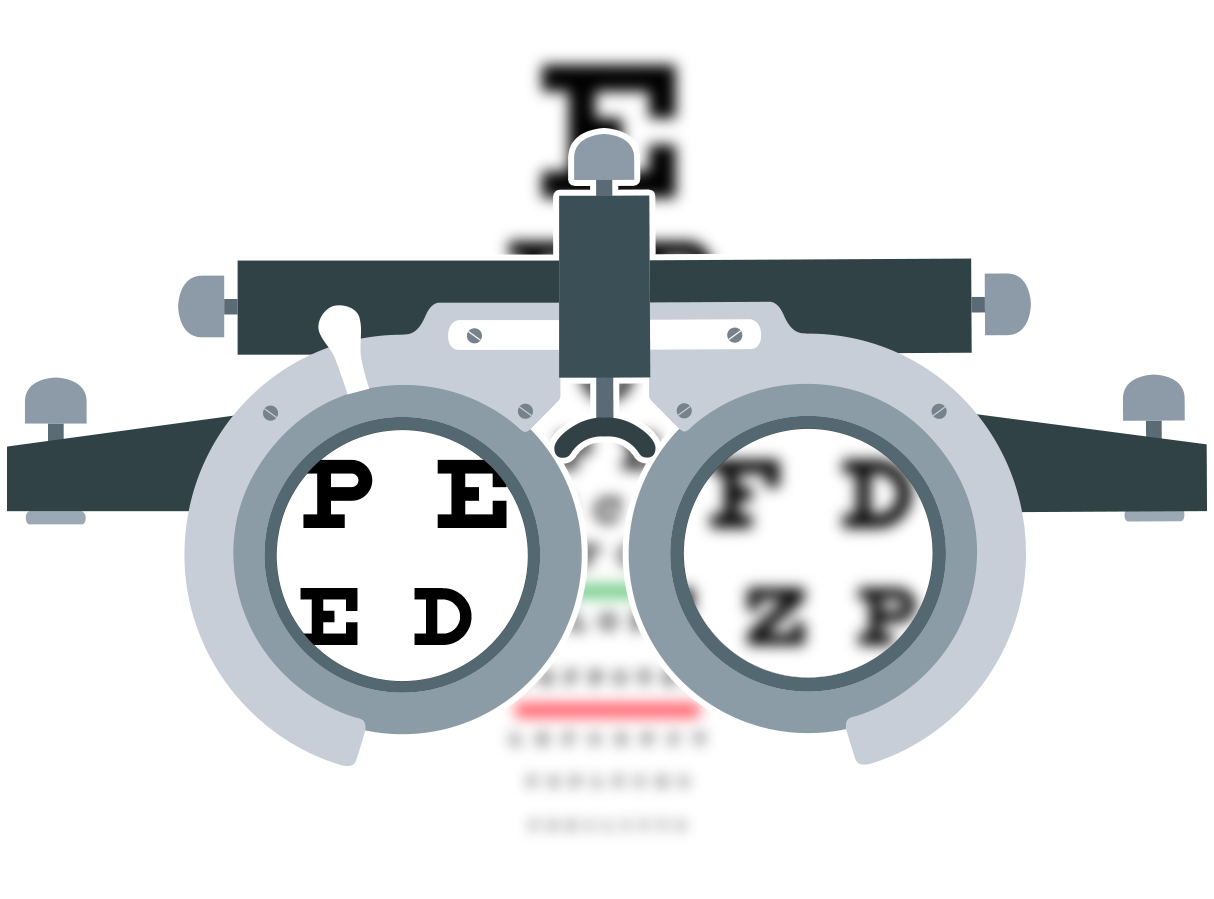
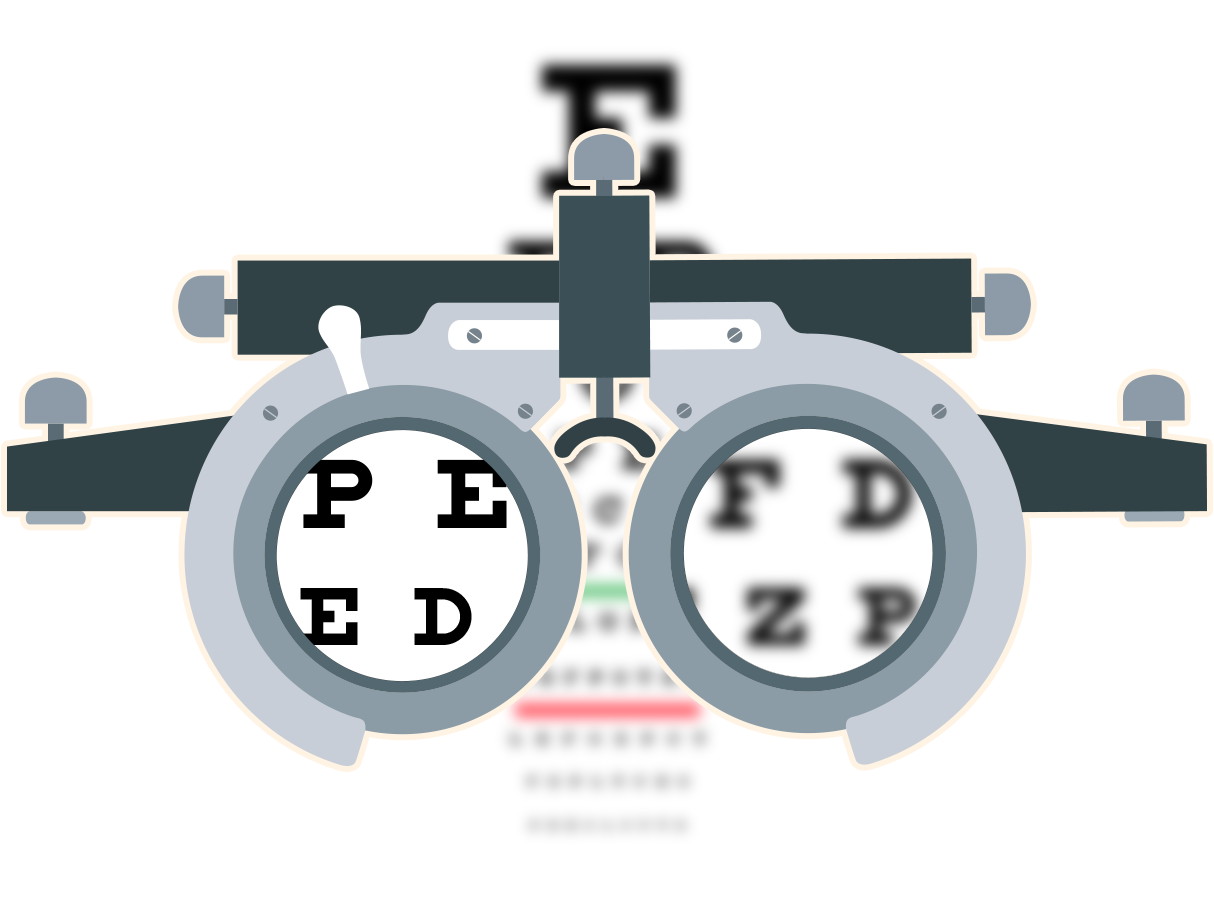
Added blur effect to images, bolded parts of text

diff --git a/index.html b/index.html
@@ -117,21 +117,28 @@
     <section class="hero">
       <div class="container">
         <div class="text-container">
-          <h1><em>See</em> the difference with hometown care.</h1>
+          <h1>
+            <em>See</em> the difference with <strong>hometown care</strong>.
+          </h1>
           <h2>
-            Dr. Phillips has been treating the eyes of Fayetteville, Dunn,
-            Lumberton, Raeford, Southern Pines and greater Moore, Hoke, Sampson,
-            and Cumberland counties for more than a decade. Let his experience
-            help you see more clearly.
+            <strong>Dr. Phillips</strong> has been treating the eyes of
+            Fayetteville, Dunn, Lumberton, Raeford, Southern Pines and greater
+            Moore, Hoke, Sampson, and Cumberland counties for
+            <strong>more than a decade</strong>. Let his experience help you
+            <strong>see more clearly</strong>.
           </h2>
           <div class="buttons">
             <a href="#about-us">About Us</a>
             <a href="#our-services">Our Services</a>
-            <a href="#our-mission">Location</a>
+            <a href="#our-location">Location</a>
           </div>
         </div>
         <div class="image-container">
-          <img src="images/hero-background.png" alt="Background Image" />
+          <img
+            class="hero-image blur-image"
+            src="images/hero-background.png"
+            alt="Background Image"
+          />
         </div>
       </div>
     </section>
@@ -172,30 +179,34 @@
       <div class="container">
         <h1>About Us</h1>
         <img
-          class="float-right"
+          class="float-right blur-image"
           alt="Picture of Dr. Brandon Phillips"
           src="images/dr-brandon-phillips.png"
         />
         <p>
-          Dr. Phillips is a general ophthalmologist whose specialty is medical
-          diseases of the eye.
+          Dr. Phillips is a general ophthalmologist whose specialty is
+          <strong>medical diseases of the eye</strong>.
         </p>
         <p>
-          He received his medical degree from the Medical College of Wisconsin
-          and completed internship and residency at Walter Reed National
-          Military Medical Center. He is certified by the American Board of
-          Ophthalmology and is a member of the American Academy of
-          Ophthalmology.
+          He received his medical degree from the
+          <strong>Medical College of Wisconsin</strong>
+          and completed internship and residency at
+          <strong>Walter Reed National Military Medical Center</strong>. He is
+          certified by the American Board of Ophthalmology and is a member of
+          the American Academy of Ophthalmology.
         </p>
         <p>
-          Dr. Phillips was born and raised in the Fayetteville area. After his
-          medical education and 12 years of military service, he came home to
-          take care of the town that has given him so much.
+          <strong
+            >Dr. Phillips was born and raised in the Fayetteville area.</strong
+          >
+          After his medical education and
+          <strong>12 years of military service</strong>, he came home to take
+          care of the town that has given him so much.
         </p>
         <p>
           Dr. Phillips and his wife, also a Fayetteville native, have four
-          children. He currently serves on the Board of Trustees at Fayetteville
-          State University.
+          children. He currently serves on the
+          <strong>Board of Trustees at Fayetteville State University</strong>.
         </p>
 
         <p>
@@ -241,24 +252,26 @@
       <div class="container">
         <h1>What You Can Expect</h1>
         <img
-          class="float-right"
+          class="float-right blur-image"
           alt="Eye Chart image"
           src="images/eye-chart.jpg"
         />
         <p>
           At Phillips Eye, you will receive exceptional one-on-one care. To us,
           that means a treatment plan tailored to your lifestyle, a wide range
-          of options for healthy eyes, minimal waiting, and time to talk with
-          Dr. Phillips about your concerns.
+          of options for <strong>healthy eyes</strong>, minimal waiting, and
+          time to talk with Dr. Phillips about your concerns.
         </p>
         <h2>Services</h2>
         <p>
-          Dr. Phillips's specialty is the medical treatment of eyes. From
-          routine care to comprehensive management of complex eye disease, his
-          passion is your care and comfort. In addition to a wealth of
-          experience, Dr. Phillips offers state-of-the-art diagnostic and
-          treatment equipment, including cutting-edge intense pulsed light
-          therapy (IPL).
+          <strong
+            >Dr. Phillips's specialty is the medical treatment of eyes.</strong
+          >
+          From routine care to comprehensive management of complex eye disease,
+          his passion is your care and comfort. In addition to a wealth of
+          experience, Dr. Phillips offers
+          <strong>state-of-the-art diagnostic and treatment equipment</strong>,
+          including cutting-edge intense pulsed light therapy (IPL).
         </p>
         <p>Most commonly, patients visit Dr. Phillips for management of:</p>
         <div class="lists-two-column">
@@ -320,7 +333,7 @@
           <div class="left">
             <p>
               <img
-                class="center"
+                class="center blur-image"
                 src="images/practice.png"
                 alt="Pic of Building"
               />
@@ -344,7 +357,8 @@
                     fill="#010101"
                     d="M459.654,233.373l-90.531,90.5c-49.969,50-131.031,50-181,0c-7.875-7.844-14.031-16.688-19.438-25.813  l42.063-42.063c2-2.016,4.469-3.172,6.828-4.531c2.906,9.938,7.984,19.344,15.797,27.156c24.953,24.969,65.563,24.938,90.5,0  l90.5-90.5c24.969-24.969,24.969-65.563,0-90.516c-24.938-24.953-65.531-24.953-90.5,0l-32.188,32.219  c-26.109-10.172-54.25-12.906-81.641-8.891l68.578-68.578c50-49.984,131.031-49.984,181.031,0  C509.623,102.342,509.623,183.389,459.654,233.373z M220.326,382.186l-32.203,32.219c-24.953,24.938-65.563,24.938-90.516,0  c-24.953-24.969-24.953-65.563,0-90.531l90.516-90.5c24.969-24.969,65.547-24.969,90.5,0c7.797,7.797,12.875,17.203,15.813,27.125  c2.375-1.375,4.813-2.5,6.813-4.5l42.063-42.047c-5.375-9.156-11.563-17.969-19.438-25.828c-49.969-49.984-131.031-49.984-181.016,0  l-90.5,90.5c-49.984,50-49.984,131.031,0,181.031c49.984,49.969,131.031,49.969,181.016,0l68.594-68.594  C274.561,395.092,246.42,392.342,220.326,382.186z"
                   /></svg></a
-              >, adjacent to the campus of Cape Fear Valley Medical Center.
+              >, adjacent to the campus of
+              <strong>Cape Fear Valley Medical Center</strong>.
             </p>
           </div>
           <div class="right">
@@ -441,5 +455,6 @@
         </div>
       </div>
     </footer>
+    <script src="main.js"></script>
   </body>
 </html>

diff --git a/main.css b/main.css
@@ -62,6 +62,7 @@ footer a,
   align-items: center;
   font-size: 20px;
   transition: all 0.3s ease;
+  text-transform: uppercase;
 }
 
 .icon-container {
@@ -100,20 +101,23 @@ footer a,
   flex-direction: column;
   justify-content: space-around;
   text-transform: uppercase;
-  margin-bottom: 12px;
   background-color: rgb(216, 216, 216);
-  padding: 20px;
+  padding: 15px;
   border-radius: 10px;
   box-shadow: 5px 5px 0px 0px #0000004c;
-  font-weight: 500;
+  font-weight: 700;
 }
 
 .address p {
-  margin: 0;
+  margin-bottom: 12px;
   text-align: center;
   text-transform: uppercase;
-  font-size: 26px;
+  font-size: 20px;
   color: #5e6b5d;
+}
+
+.address p:last-of-type {
+  margin-bottom: 0;
 }
 
 .google-maps {
@@ -139,7 +143,7 @@ footer a,
   display: flex;
   justify-content: center;
   align-items: center;
-  padding: 30px 0;
+  padding: 30px 0 60px;
 }
 
 .hero .container {
@@ -155,6 +159,7 @@ footer a,
 
 .hero .text-container {
   width: 60%;
+  padding: 0 20px 0 0;
 }
 
 .hero .text-container h1 {
@@ -167,6 +172,7 @@ footer a,
 
 .hero .text-container h1 em {
   font-weight: 800;
+  font-size: 82px;
 }
 
 .hero .text-container h2 {
@@ -175,6 +181,7 @@ footer a,
   line-height: 38px;
   margin-bottom: 12px;
   font-weight: 400;
+  text-align: justify;
 }
 
 .hero .buttons {
@@ -347,7 +354,10 @@ section {
 }
 
 .content .container h2 {
-  font-size: 36px;
+  display: block;
+  width: 100%;
+  font-family: 'Playfair Display', serif;
+  font-size: 48px;
   margin-bottom: 18px;
 }
 
@@ -452,7 +462,7 @@ section {
 
 footer {
   /* background: #354234; */
-  padding: 35px 0;
+  padding: 100px 0 50px;
   color: #5e6b5d;
 }
 
@@ -478,6 +488,7 @@ footer .center {
   text-align: center;
   font-size: 14px;
   letter-spacing: 1px;
+  margin-top: 25px;
 }
 
 footer .center a {
@@ -491,6 +502,7 @@ footer .center a {
   padding: 4px 6px;
   margin: 0 2px 0 0;
   border-radius: 3px;
+  text-transform: capitalize;
   transition: all 0.3s ease;
 }
 
@@ -507,6 +519,27 @@ footer .center a:hover {
   background-color: #f07d63;
 }
 
+.hero-image.blur-image {
+  filter: blur(15px);
+  transition: filter 2s ease-in-out;
+}
+
+.hero-image.unblur-image {
+  filter: blur(0);
+  transition: filter 2s ease-in-out;
+}
+
+.blur-image {
+  filter: blur(5px);
+  transition: filter 0.3s ease-in-out;
+}
+
+.unblur-image {
+  filter: blur(0);
+  transition: filter 0.3s ease-in-out;
+}
+
+/* Mobile Optimizations Below */
 @media (max-width: 1200px) {
   header .logo {
     margin-bottom: 12px;

diff --git a/main.js b/main.js
@@ -1,0 +1,24 @@
+// image-loading.js
+document.addEventListener('DOMContentLoaded', function () {
+  var images = document.querySelectorAll('.blur-image')
+  var blurThreshold = 50 // Adjust this value as needed
+
+  function checkImagePosition() {
+    images.forEach(function (image) {
+      var imageRect = image.getBoundingClientRect()
+      var viewportHeight =
+        window.innerHeight || document.documentElement.clientHeight
+
+      if (imageRect.top < viewportHeight - blurThreshold) {
+        image.classList.remove('blur-image')
+        image.classList.add('unblur-image')
+      }
+    })
+  }
+
+  // Check image position on page load
+  checkImagePosition()
+
+  // Check image position on scroll
+  window.addEventListener('scroll', checkImagePosition)
+})
